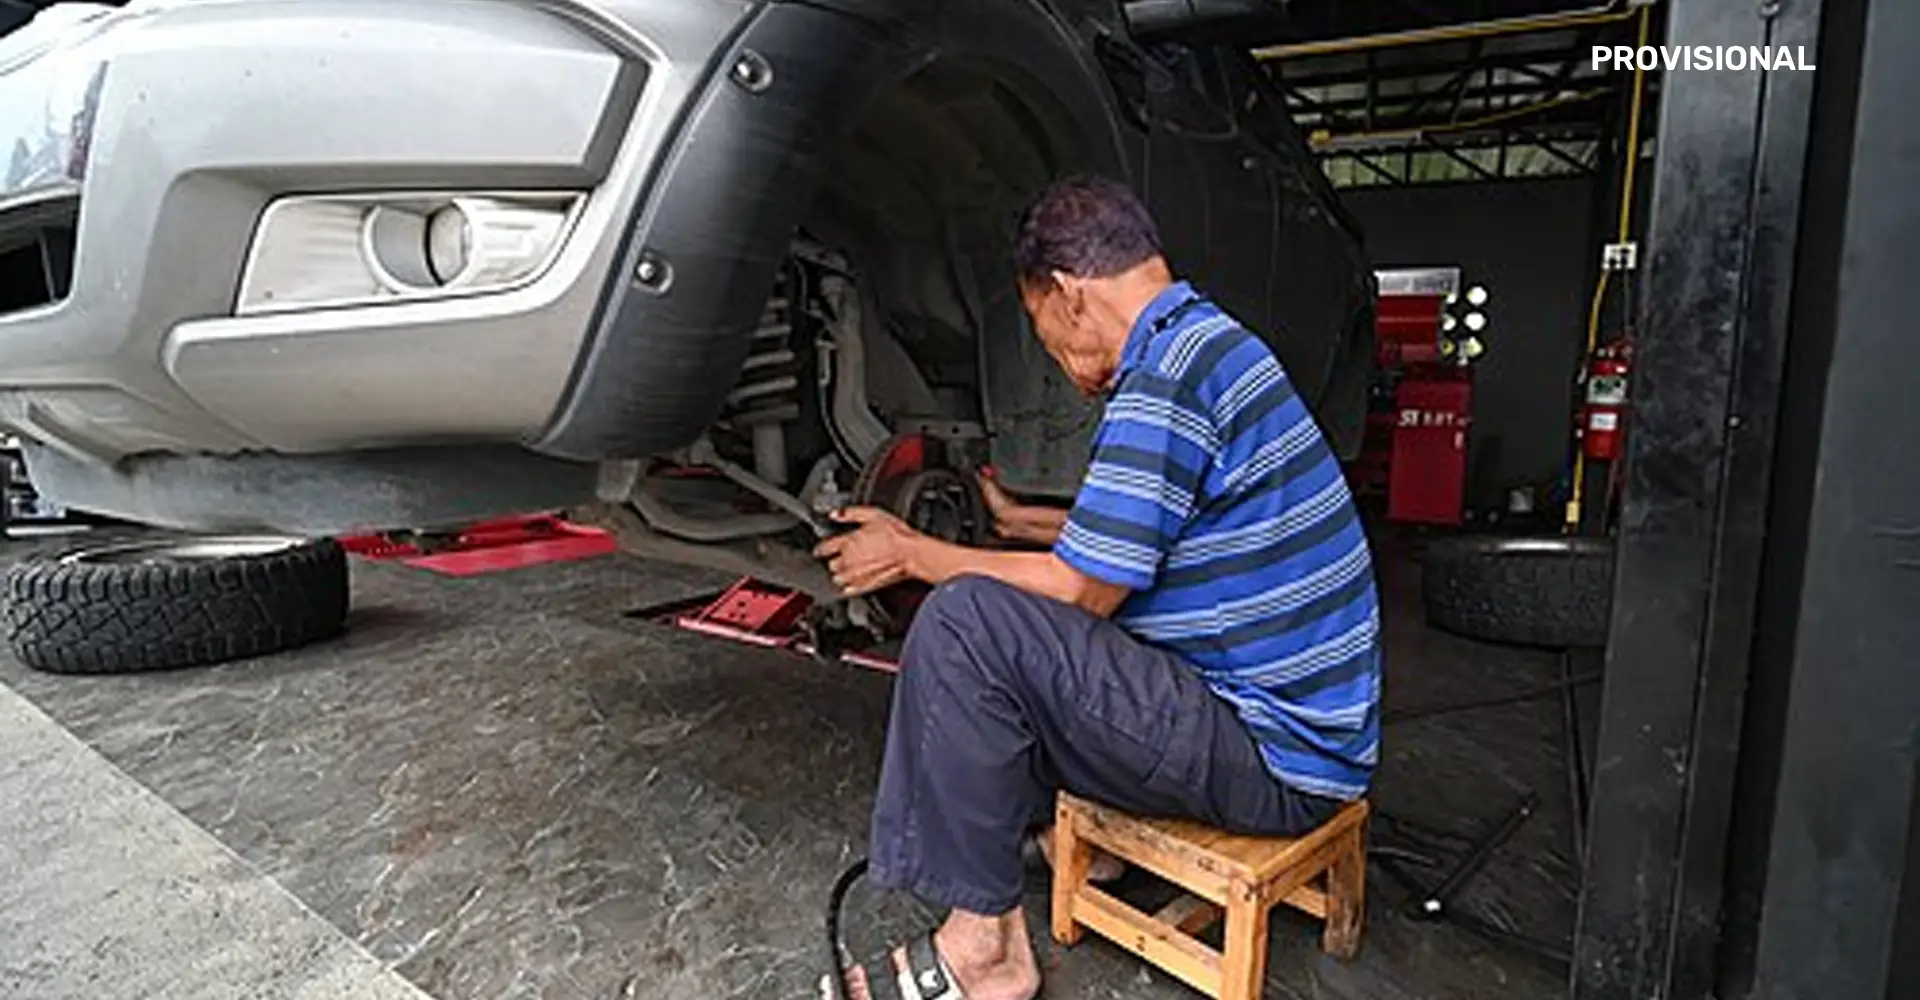
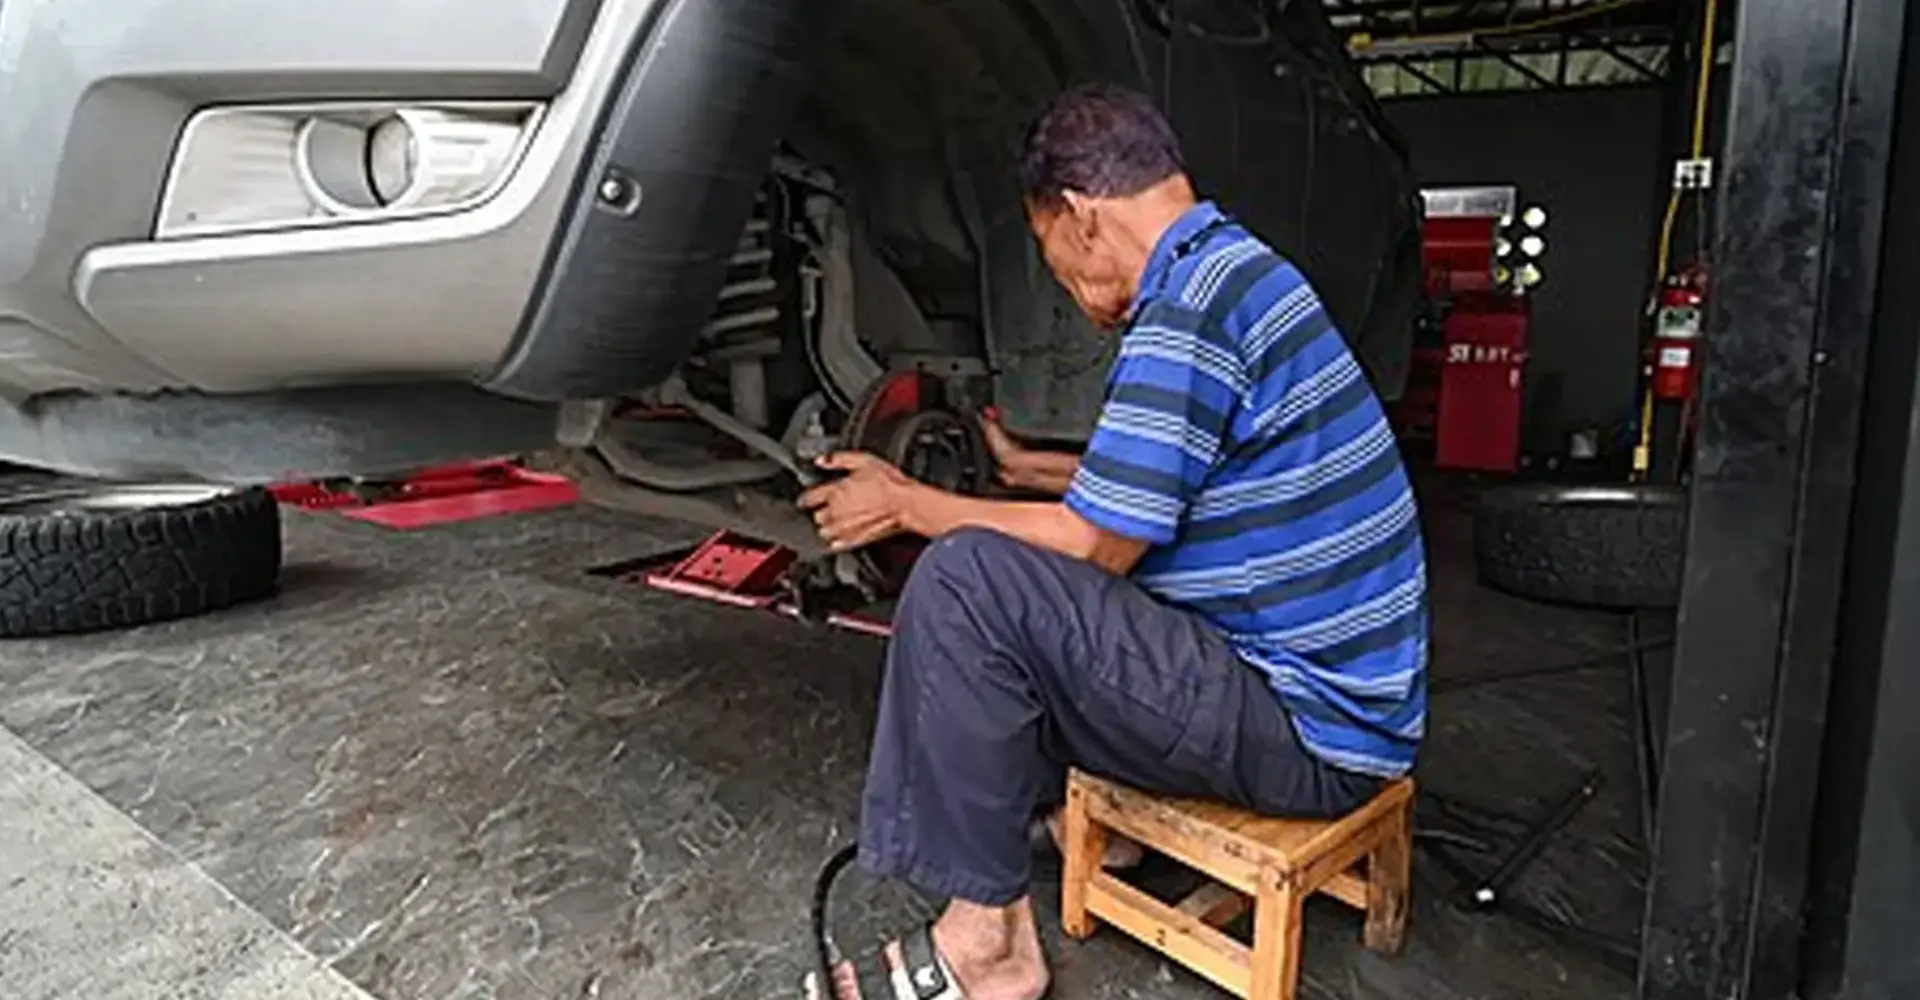
v33: portada con carrusel de 10 fotos reales; sin letreros ni recuadro provisional
Claude-Session: https://claude.ai/code/session_011SdsLKzTmFSpwPz2orkjvZ

diff --git a/index.html b/index.html
@@ -25,15 +25,15 @@
 <meta property="og:type" content="website">
 <meta name="twitter:card" content="summary_large_image">
 <link rel="preconnect" href="https://ytxpubqyhnohhugpukdm.supabase.co" crossorigin>
-<link rel="stylesheet" href="fuentes.css?v=32">
-<link rel="stylesheet" href="styles.css?v=32">
+<link rel="stylesheet" href="fuentes.css?v=33">
+<link rel="stylesheet" href="styles.css?v=33">
 <!-- Diseño del ordenador (rediseño B): solo en el navegador del PC; el móvil, la app instalada y el panel no lo cargan -->
-<link rel="stylesheet" href="web-pc-rb.css?v=32" media="(min-width: 1000px) and (display-mode: browser)">
+<link rel="stylesheet" href="web-pc-rb.css?v=33" media="(min-width: 1000px) and (display-mode: browser)">
 <!-- Portada con fotos grandes: en el PC, en el navegador y en la app instalada -->
-<link rel="stylesheet" href="portada-pc.css?v=32" media="(min-width: 1000px)">
+<link rel="stylesheet" href="portada-pc.css?v=33" media="(min-width: 1000px)">
 <!-- Movimiento del ordenador: no hace nada en el móvil, en la app instalada ni con «reducir movimiento» -->
-<script src="web-pc-anim.js?v=32"></script>
-<script src="portada-fotos.js?v=32" defer></script>
+<script src="web-pc-anim.js?v=33"></script>
+<script src="portada-fotos.js?v=33" defer></script>
 </head>
 <body class="web">
 <a class="saltar" href="#contenido">Ir al contenido</a>
@@ -139,11 +139,6 @@
           <div id="lista-actualidad" class="lista"><div class="esq"></div><div class="esq"></div></div>
         </div>
       </div>
-      <!-- Rediseño del PC: hueco para una foto real (provisional hasta que el comité tenga una con permiso). Solo en el PC. -->
-      <figure class="foto-pc" hidden>
-        <div class="foto-hueco" role="img" aria-label="Imagen provisional: aquí irá una foto real de la plantilla o de la nave, con permiso"><span>Imagen provisional</span></div>
-        <figcaption>Foto: origen · licencia</figcaption>
-      </figure>
     </div>
   </section>
 
@@ -427,9 +422,9 @@
 </footer>
 
 <script src="lib/supabase.js"></script>
-<script src="comun.js?v=32"></script>
-<script src="render.js?v=32"></script>
-<script src="app.js?v=32"></script>
-<script src="visor.js?v=32"></script>
+<script src="comun.js?v=33"></script>
+<script src="render.js?v=33"></script>
+<script src="app.js?v=33"></script>
+<script src="visor.js?v=33"></script>
 </body>
 </html>

diff --git a/admin.html b/admin.html
@@ -13,9 +13,9 @@
 <link rel="icon" href="img/favicon-32.png" sizes="32x32" type="image/png">
 <link rel="icon" href="img/favicon-64.png" sizes="64x64" type="image/png">
 <link rel="apple-touch-icon" href="img/apple-touch-icon.png">
-<link rel="stylesheet" href="fuentes.css?v=32">
-<link rel="stylesheet" href="styles.css?v=32">
-<link rel="stylesheet" href="admin.css?v=32">
+<link rel="stylesheet" href="fuentes.css?v=33">
+<link rel="stylesheet" href="styles.css?v=33">
+<link rel="stylesheet" href="admin.css?v=33">
 </head>
 <body class="panel">
 <header class="cabecera cab-panel">
@@ -157,8 +157,8 @@
 </section>
 
 <script src="lib/supabase.js"></script>
-<script src="comun.js?v=32"></script>
-<script src="render.js?v=32"></script>
-<script src="admin.js?v=32"></script>
+<script src="comun.js?v=33"></script>
+<script src="render.js?v=33"></script>
+<script src="admin.js?v=33"></script>
 </body>
 </html>

diff --git a/cartel.html b/cartel.html
@@ -8,7 +8,7 @@
 <meta name="robots" content="noindex">
 <title>Cartel para el tablón · Comité Calsina Carré</title>
 <link rel="icon" href="img/favicon-32.png" sizes="32x32" type="image/png">
-<link rel="stylesheet" href="fuentes.css?v=32">
+<link rel="stylesheet" href="fuentes.css?v=33">
 <style>
   :root { --noche: #0B1E3C; --azul: #0E5FAE; --cian: #00C6FF; --hielo: #E6EEF7; --tinta: #0B1E3C; --suave: #4d5b6c; }
   * { box-sizing: border-box; }
@@ -88,6 +88,6 @@
   </div>
 </div>
 <script src="lib/qr.js"></script>
-<script src="cartel.js?v=32"></script>
+<script src="cartel.js?v=33"></script>
 </body>
 </html>

diff --git a/comun.js b/comun.js
@@ -6,7 +6,7 @@
 window.SUPABASE_URL = "https://ytxpubqyhnohhugpukdm.supabase.co";
 window.SUPABASE_KEY = "sb_publishable_tmkeed90aj4Fv00UoTTy7Q_qBPUAaCj";
 window.sb = supabase.createClient(window.SUPABASE_URL, window.SUPABASE_KEY);
-window.VERSION_WEB = "32"; // cambiar junto con ?v= en los HTML y VERSION en sw.js
+window.VERSION_WEB = "33"; // cambiar junto con ?v= en los HTML y VERSION en sw.js
 // Dirección de la web: sale de donde esté publicada (no hay que tocarla si cambia el dominio)
 window.WEB_URL = new URL("./", location.href).href;
 

diff --git a/guia.html b/guia.html
@@ -9,8 +9,8 @@
 <title>Guía del panel · Comité Calsina Carré</title>
 <meta name="theme-color" content="#0B1E3C">
 <link rel="icon" href="img/favicon-32.png" sizes="32x32" type="image/png">
-<link rel="stylesheet" href="fuentes.css?v=32">
-<link rel="stylesheet" href="styles.css?v=32">
+<link rel="stylesheet" href="fuentes.css?v=33">
+<link rel="stylesheet" href="styles.css?v=33">
 <style>
   body { padding-bottom: 40px; }
   .guia { max-width: 820px; margin: 0 auto; padding: 8px 16px 40px; }

diff --git a/sw.js b/sw.js
@@ -1,6 +1,6 @@
 // Permite instalar la web como app y abrirla sin conexión.
 // Cambiar VERSION junto con ?v= en los HTML y VERSION_WEB en comun.js.
-const VERSION = "32";
+const VERSION = "33";
 const CACHE = "comite-v" + VERSION;
 const ARCHIVOS = [
   "./", "index.html", "admin.html", "guia.html", "404.html",

diff --git a/CLAUDE.md b/CLAUDE.md
@@ -9,7 +9,7 @@ La gestiona desde el panel el padre de Lorena (usuario GitHub `mariancracana77-S
 
 - Web: https://mariancracana77-ssccoo.github.io/Comite-calsina-carre/ (GitHub Pages desde `main`, raíz)
 - Panel: `admin.html` (email + contraseña de Supabase)
-- Versión actual: **32**
+- Versión actual: **33**
 - **Nombre** (lo pidieron Lorena y su padre el 9/11/2026, al volver a la cuenta de siempre): se ve «Calsina Carré» en títulos, cabecera, pie, portada (también en el camión), manifest y cartel, como en la v20. Desde la v23 el camión de la portada va **sin** nombre (se veía borroso; lo pidió Lorena el 9/11/2026): imágenes de antes de la petición n.º 7. No volver a ponerle texto **dentro** de la imagen. **v27 (petición n.º 11 del padre, Lorena: «Que lo publique», 13/11/2026)**: «CALSINA CARRÉ» vuelve a la lona y a la carretilla, pero como texto SVG encima del dibujo (`.rotulo`, `.rotulo-movil`/`.rotulo-pc` en `index.html`, con el viewBox de cada imagen y `slice` como el `cover` del fondo), sin lema ni flecha: así se ve nítido. **v28 (lo mandó Lorena el 13/11/2026: «usa esto, le añadí el logo»)**: imagen de portada nueva (original en el vault, «Comité/Imágenes/portada-nueva-logo-CC-2026-11-13.webp», 1671×941) con las CC y el nombre con la flecha ya dibujados en el camión y la carretilla; `img/portada.webp` = la imagen entera a 1600×900; `img/portada-movil.webp` = recorte de x 612–1452, y 350–676, a su tamaño (840×326, sin ampliar, con un poco de nitidez), y la caja del móvil con la misma proporción 840/326 y bordes menos difuminados (v29, lo pidió Lorena: así no se cortan el techo ni las ruedas). Se quitó el texto SVG de la v27 para que el nombre no salga dos veces. La v21 sin nombres quedó solo en local (rama `limpio`).
 
 ## Reglas (las mismas que en CCOO)
@@ -23,6 +23,9 @@ La gestiona desde el panel el padre de Lorena (usuario GitHub `mariancracana77-S
 
 ## Marca
 Kit visual HD del comité (CC metálico + camión + personas). Paleta: `#0B1E3C` azul noche, `#0E5FAE` azul, `#00C6FF` cian, `#E6EEF7` hielo, blanco. Letras: Montserrat (títulos) e Inter (texto), alojadas en `fuentes/` (`fuentes.css`). Imágenes en `img/`: `icon-192/512.png` (esquinas transparentes), `icon-maskable-512.png` y `apple-touch-icon.png` (a sangre), `favicon-32/64.png` (solo el CC), `hero-arte.webp` (CC + camión + la gasolinera de la empresa, a la derecha del bloque azul de la portada; la gasolinera la pidió el padre porque la empresa tiene gasolinera propia: dibujo en `herramientas/gasolinera.svg`, añadido a la derecha del recorte del kit alargando su fondo), `cabecera-900/1600.webp` (ya no se usan en la web), `og.png` (vista previa al compartir: se hace con `herramientas/og.html` + `herramientas/og.cjs`). El cartel (`cartel.html`) lleva cabecera con el logo y `hero-arte.webp`; debe caber en un A4.
+
+## Portada con carrusel de fotos (v33, lo pidió Lorena el 16/11/2026)
+`portada-fotos.js` (lista `FOTOS` con src, que y crédito; cambia cada 7 s; pausa y rayitas; <760 px usa `img/portada/movil/`, 800x600) y `portada-pc.css` (ordenador, web y app instalada: foto a todo el ancho, titular abajo a la izquierda con sombra redonda solo detrás de las letras, nada de velo azul ni recuadro: no le gustaron). Cambio «de cortina» con filo `#0E5FAE` (no cian, no fundido: «parece PowerPoint»). La primera foto es también el fondo CSS de `.hero-arte` (styles.css y portada-pc.css). Fotos en `img/portada/` (1920x1000): 1 camión del padre, 2 flota, 3 almacén, 3b dentro del almacén (Wikimedia), 4 taller (Wikimedia), 5 gasolinera, 6 tren, 7 barco, 8 logística, 9 base; las de Calsina salen de calsina-carre.com (Lorena las dio; se le aconsejó pedir permiso por escrito a la empresa). Al cambiar fotos: créditos en `creditos.html`, matrículas difuminadas, sin rótulos pintados, y la regex de `pruebas/humo.cjs`. La foto hecha con IA de la v32 ya no se usa en la portada.
 
 ## Actualidad (anuncios) y Avisos: no son lo mismo
 Lo explicó el padre. **Actualidad = anuncios**: información general para todos, sin destacar (p. ej. «la reunión de hoy acordó que desde mañana el turno 3 tiene 25 minutos de pausa en vez de 20»). **Avisos** = lo importante que hay que destacar (huelga general la semana que viene, mañana festivo, elecciones, último día del mes para algo). Desde la v11 la pestaña se llama **«Info general»** (lo pidió el padre) y sus entradas son «anuncios»; por dentro sigue siendo `actualidad` (tabla, vista `#actualidad` y ancla `#noticia-N`).

diff --git a/README.md b/README.md
@@ -103,6 +103,7 @@ NODE_PATH=$(npm root -g) node pruebas/sw.cjs
 - **v30**: diseño nuevo solo para la web abierta en el navegador del ordenador (lo eligió Lorena, «mezcla 2»): arriba, cabecera azul con pestañas numeradas, portada ancha y franja del aviso urgente con botón rojo; abajo, rótulos de página con su número de muelle, carril en los avisos y tarjetas planas. Animaciones sobrias (GSAP 3.15.1, licencia gratuita de GreenSock en `lib/LICENCIA-gsap.txt`) que se paran con «reducir movimiento». El móvil, la app instalada y el panel no cambian (`web-pc-e2.css` y `web-pc-anim.js` solo con `(min-width: 1000px) and (display-mode: browser)`).
 - **v31**: arreglos del diseño del ordenador que pidió Lorena: «Sugerencias y preguntas» usa todo el ancho (formulario a la izquierda y a la derecha «Cómo funciona», en 4 pasos, y las preguntas frecuentes), con botones del estilo nuevo; en la portada, las rayas de «Info general» y «Próximas reuniones» van a la misma altura; el calendario y Salud laboral, sin huecos; en modo oscuro, el rótulo de cada página va oscuro. Móvil, app y panel sin cambios.
 - **v32**: rediseño de la portada que eligió Lorena (16/11/2026): foto de toda la plantilla (almacén, carga y descarga, chófer y la gasolinera de la empresa), hecha con IA y ampliada, sin rótulos añadidos; en el ordenador ocupa todo el ancho, con el cielo alargado y el titular encima, sin velo; en el móvil y la app, la foto arriba y el texto debajo. Logo nuevo (CC con carretera) en el icono de la app, favicon, cabecera, pie, 404 e imagen al compartir. Diseño del ordenador en `web-pc-rb.css` (sustituye a `web-pc-e2.css`), con letra de títulos Bricolage Grotesque (OFL).
+- **v33**: la portada pasa a ser un carrusel de 10 fotos reales que cambian solas cada 7 segundos con un cambio «de cortina» (corte inclinado con filo azul de Calsina), con botón de pausa y rayitas que se van llenando; en el ordenador (web y app instalada) a todo el ancho, con el titular abajo a la izquierda sobre una sombra suave; en el móvil y la app, arriba, con fotos más pequeñas (`img/portada/movil/`). Fotos: el camión del padre, siete de la web de Calsina Carré (flota, almacén, gasolinera, tren, barco, logística y la base) y dos libres de Wikimedia (dentro del almacén y taller, CC BY-SA 4.0), todas en Créditos. Archivos nuevos `portada-fotos.js` y `portada-pc.css`. Se quita el recuadro «Imagen provisional» del ordenador. Lo pidió Lorena (16/11/2026).
 - **v28**: imagen de portada nueva que mandó Lorena (con el logo CC, y el nombre con la flecha en el camión y la carretilla), en el PC entera y en el móvil recortada al camión y la carretilla. Se quita el texto de la v27, que ya va en la imagen.
 - **v27**: petición n.º 11 del padre (con el sí de Lorena): «CALSINA CARRÉ» en la lona del camión y en la carretilla de la portada, sin «the logical way» ni flecha. Va escrito encima del dibujo (no dentro de la imagen), así que se ve nítido en el móvil y en el PC.
 - **v26**: letra más pequeña que la normal (lo pidió Lorena el 10/11/2026, igual que en CCOO). El botón «Aa» de arriba ahora tiene cuatro tamaños: normal, grande, muy grande y pequeña; se recuerda en el móvil. Probado a 320 px y en modo oscuro, en la web y en el panel.
